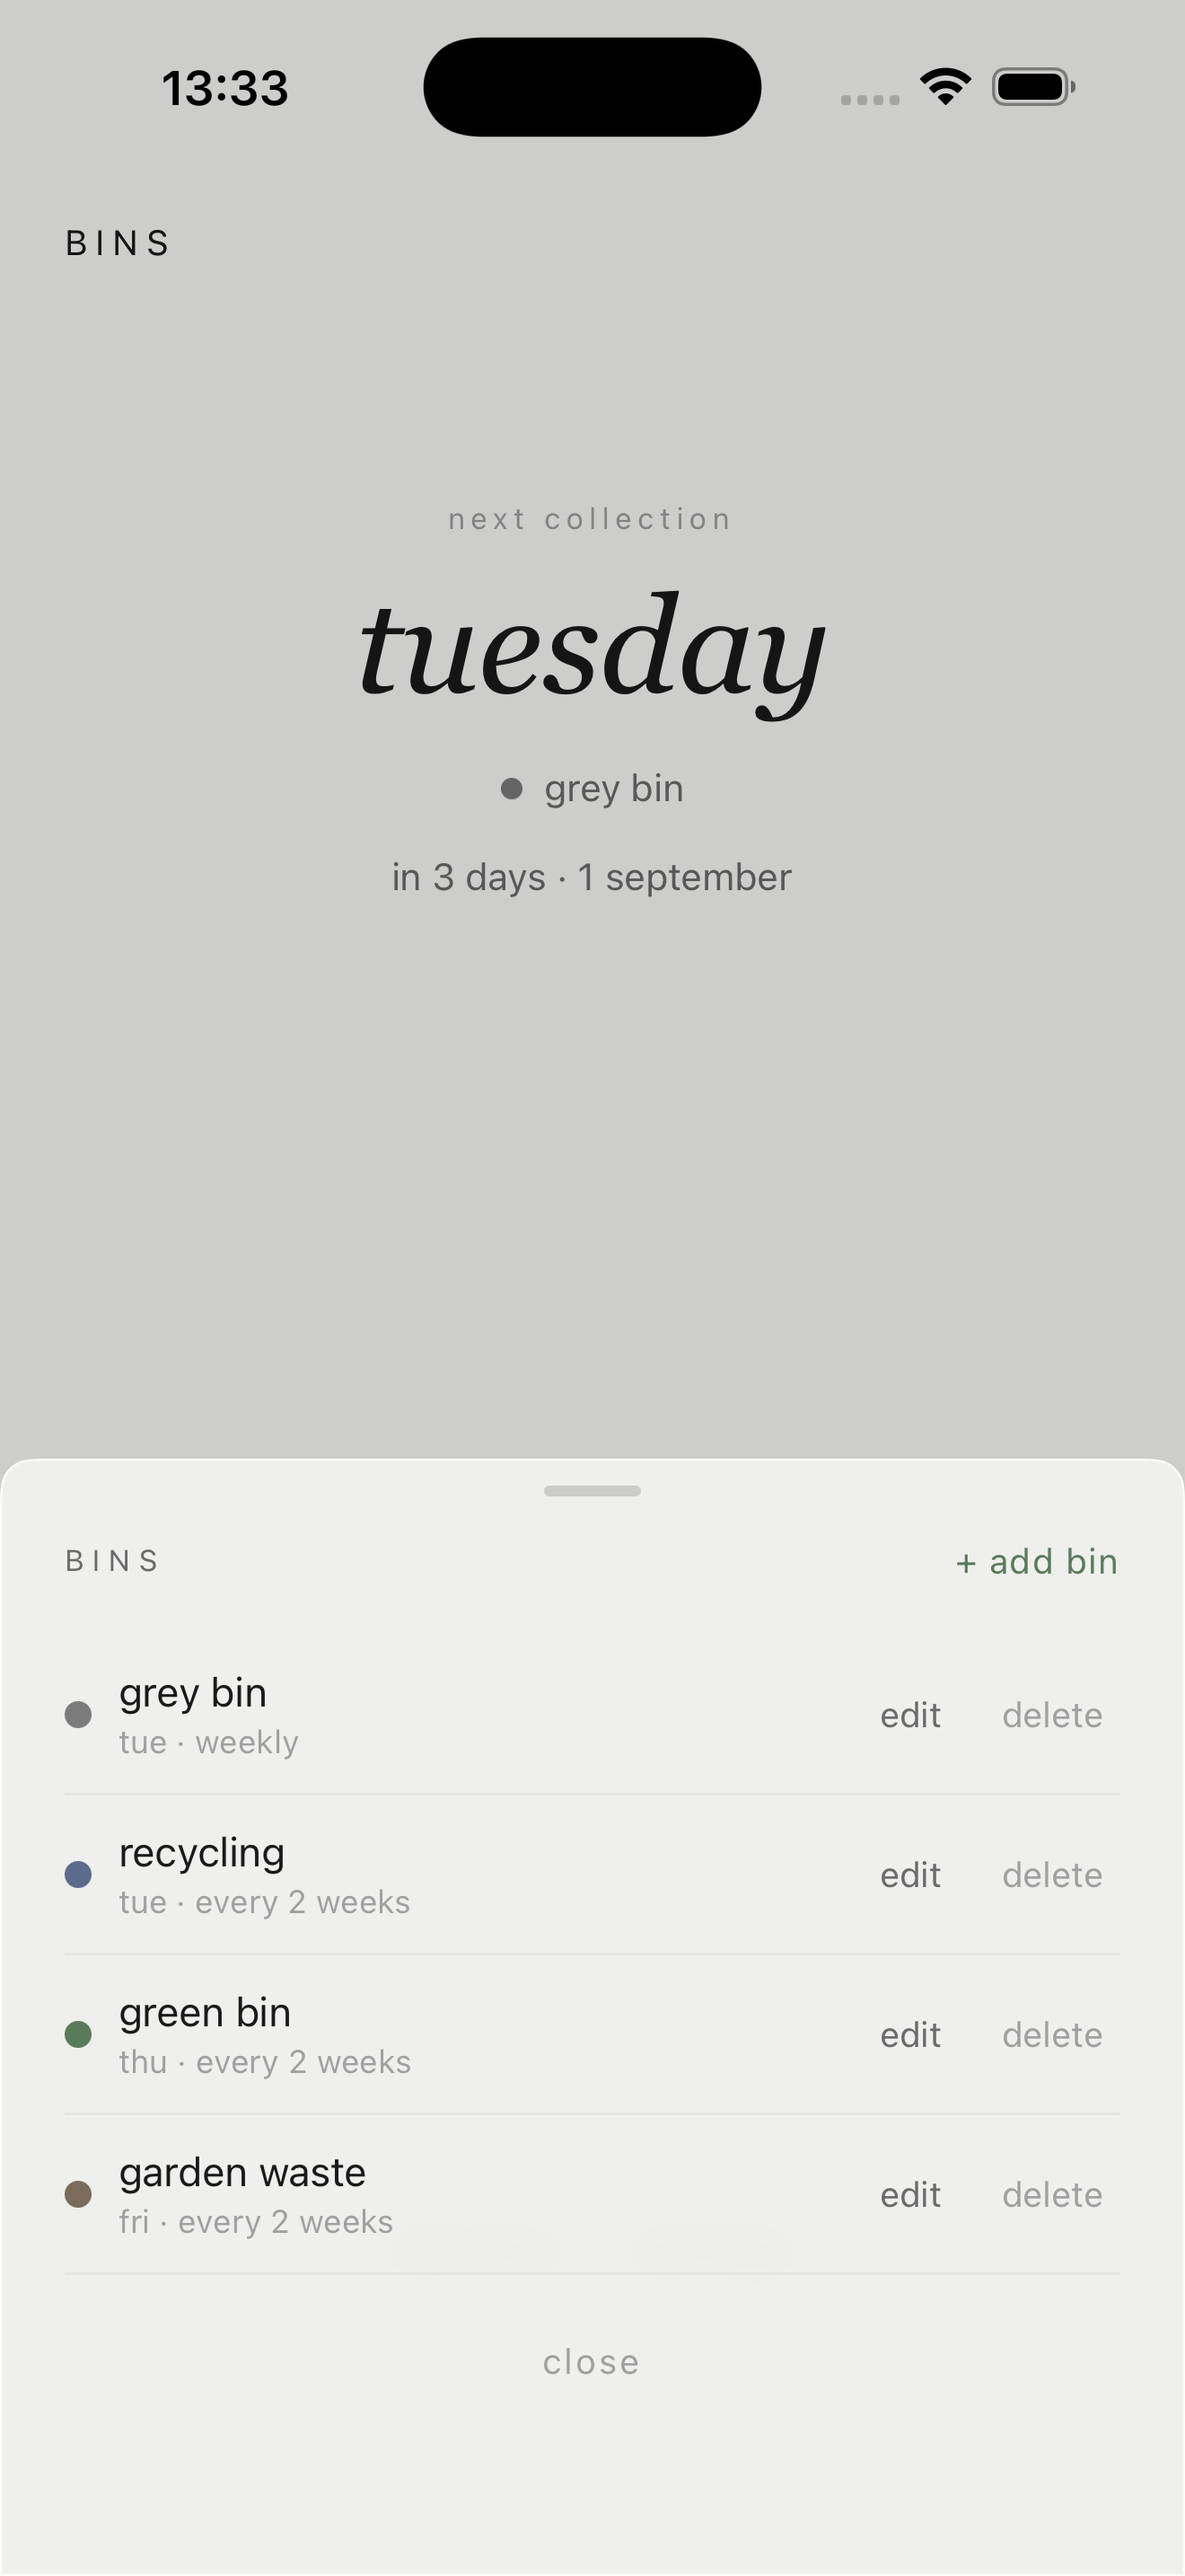
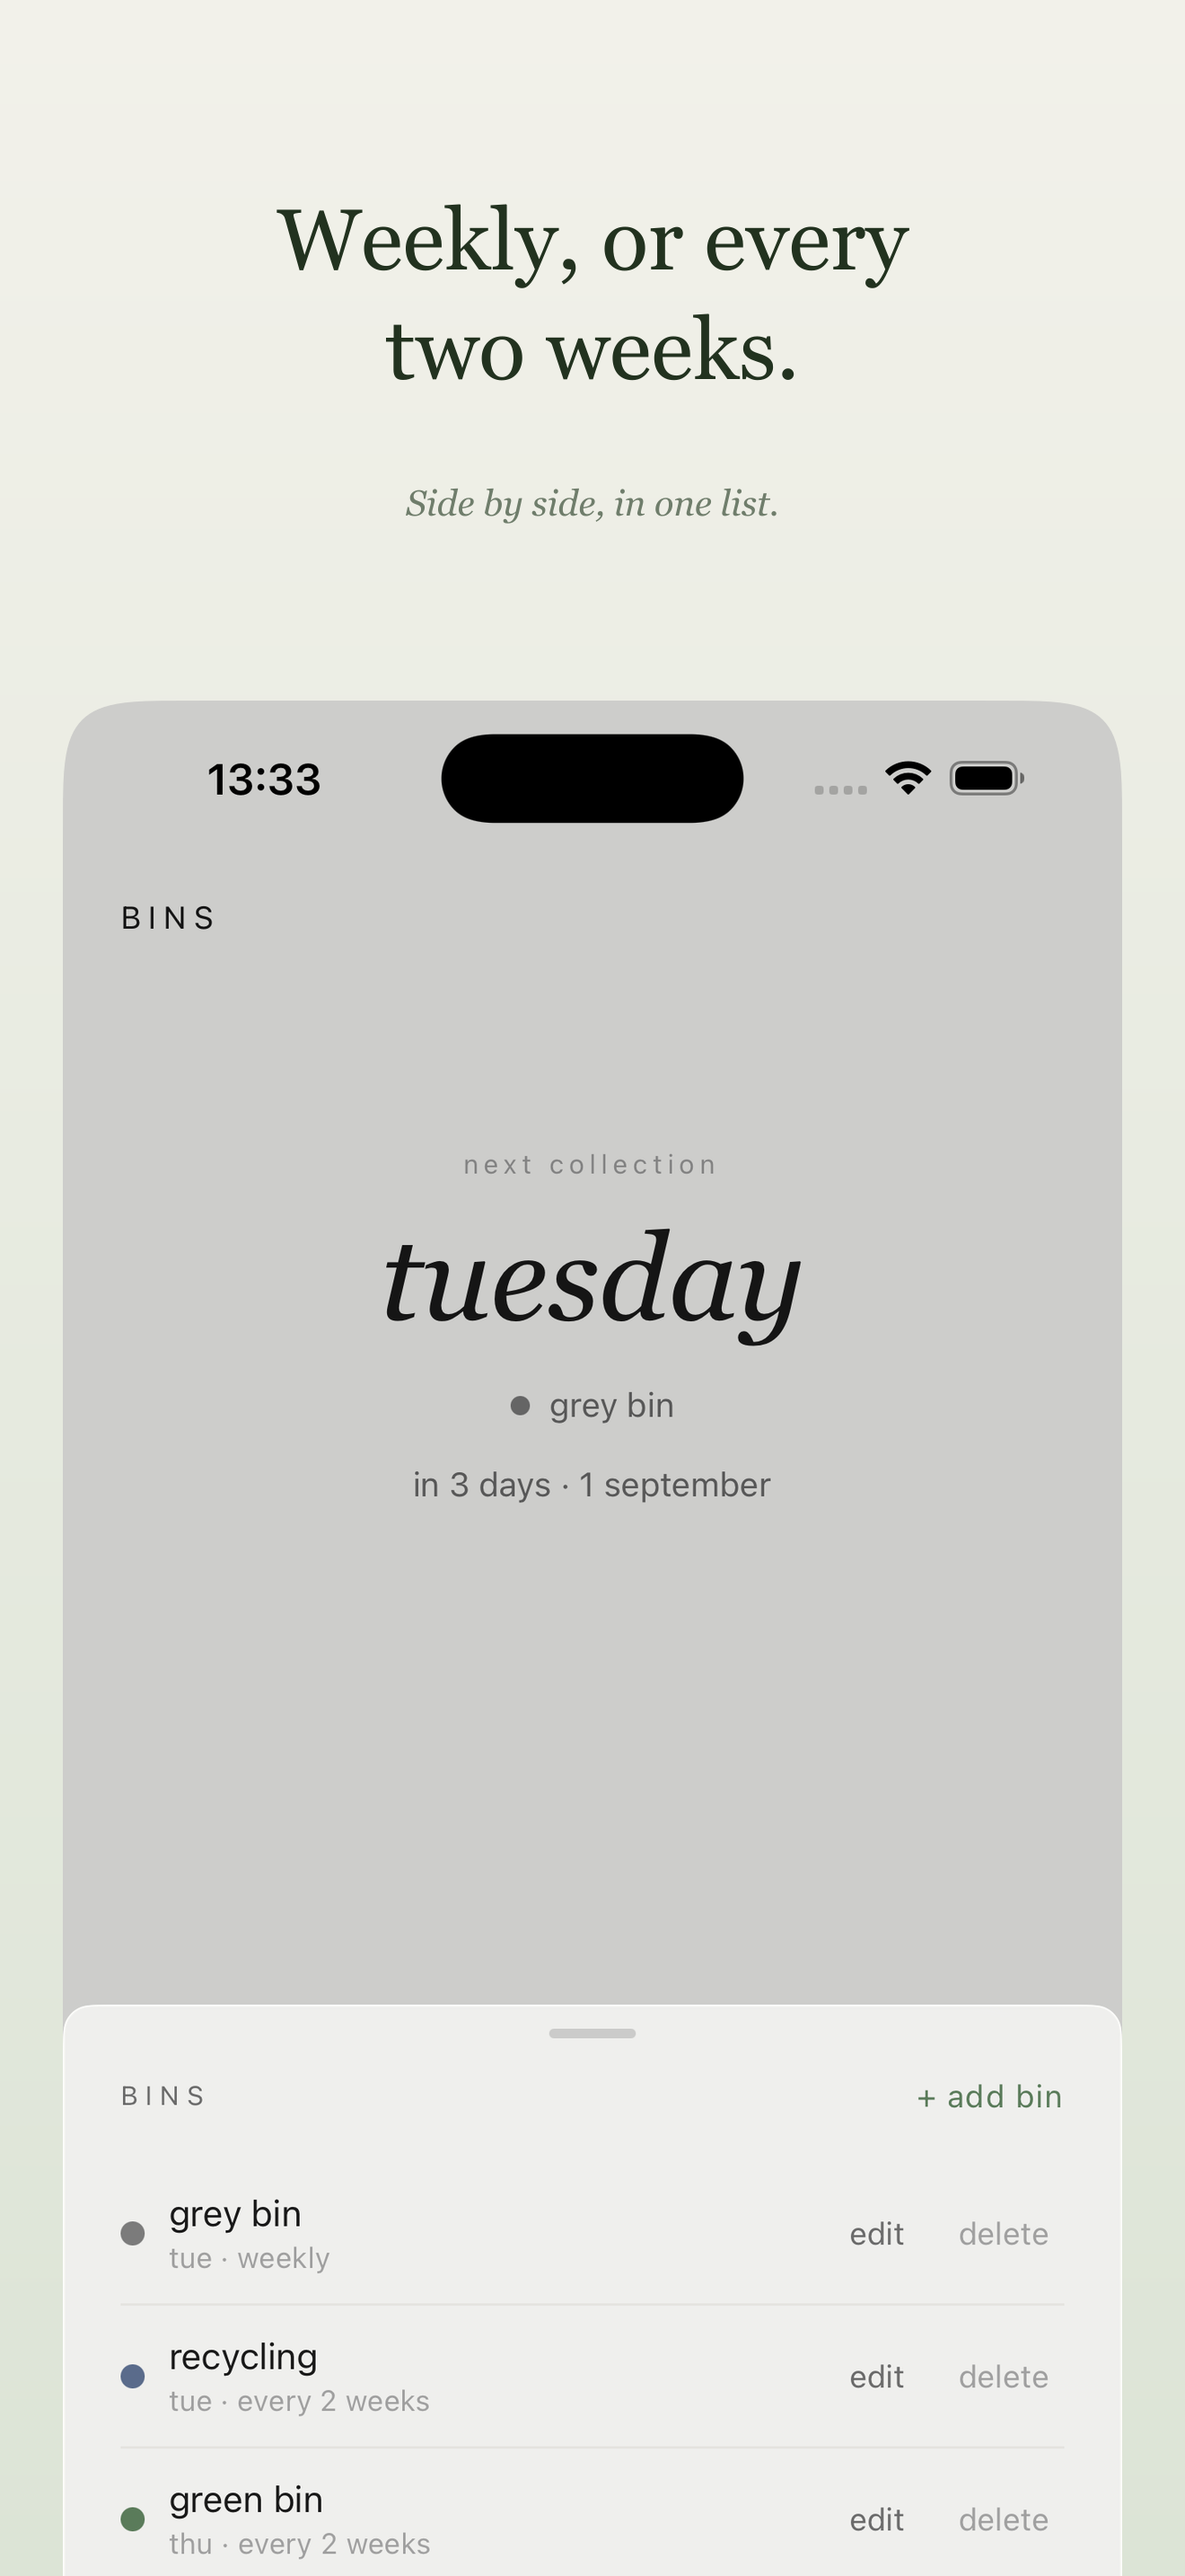
Publish Bins status and current galleries

diff --git a/CHANGELOG.md b/CHANGELOG.md
@@ -10,6 +10,8 @@
 
 ### Changed
 
+- Bins is marked live, links to its App Store page, and shows cleaner screenshots.
+- Keel's gallery uses the six current 1.1.0 framed screenshots.
 - The homepage apps are separate App Store-style cards: real app icons, names
   and a capsule showing whether each app is out, in beta, in review or coming
   soon. Cards lift gently on hover and settle when pressed.
@@ -17,7 +19,7 @@
 - Fork's page has the 1.1.0 screenshots and describes bass, ukulele and 432 Hz.
 - App pages use each app's real icon where one exists.
 - llms.txt and llms-full.txt list Lune and Tide, Fork's new instruments and
-  Bins in App Review.
+  Bins on the App Store.
 - The homepage lists Fork, Keel and Bins first, then Lune, Enso, Tide and the
   coming soon apps.
 - Simplify the README to development, project structure, analytics and licensing.
